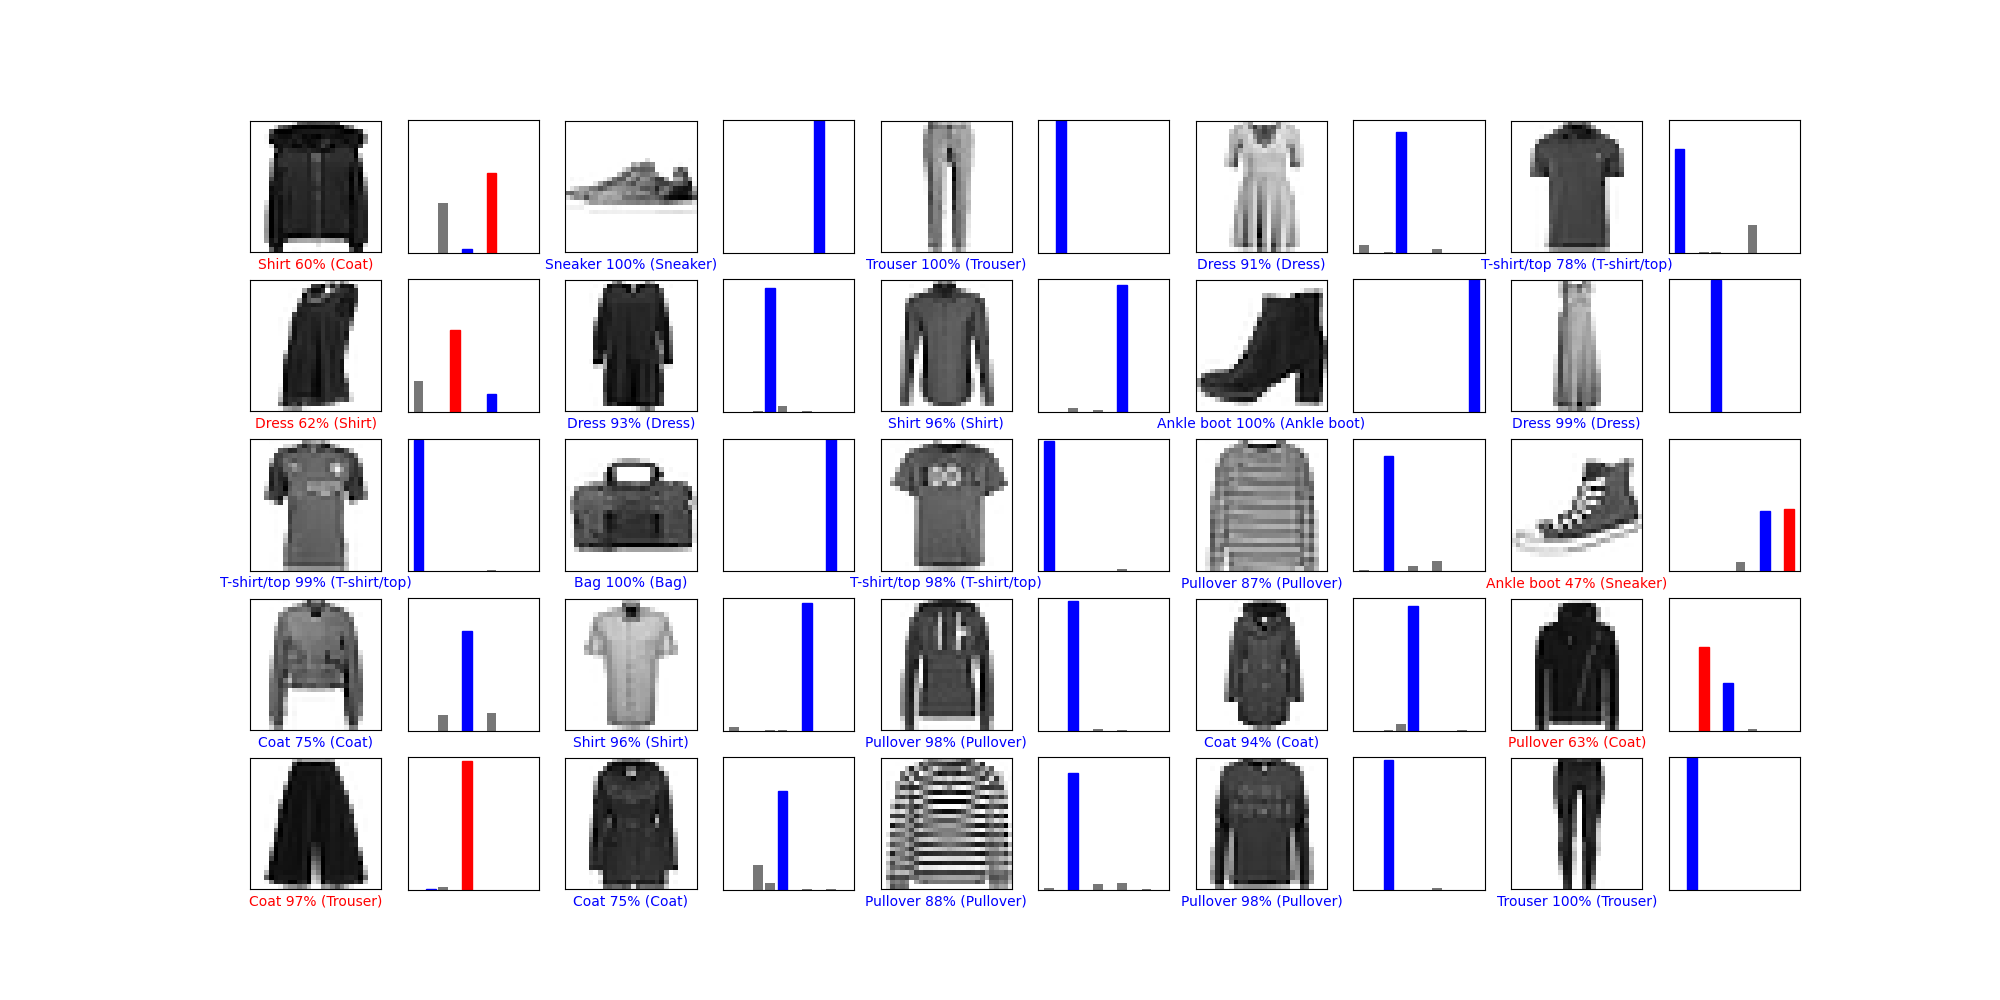
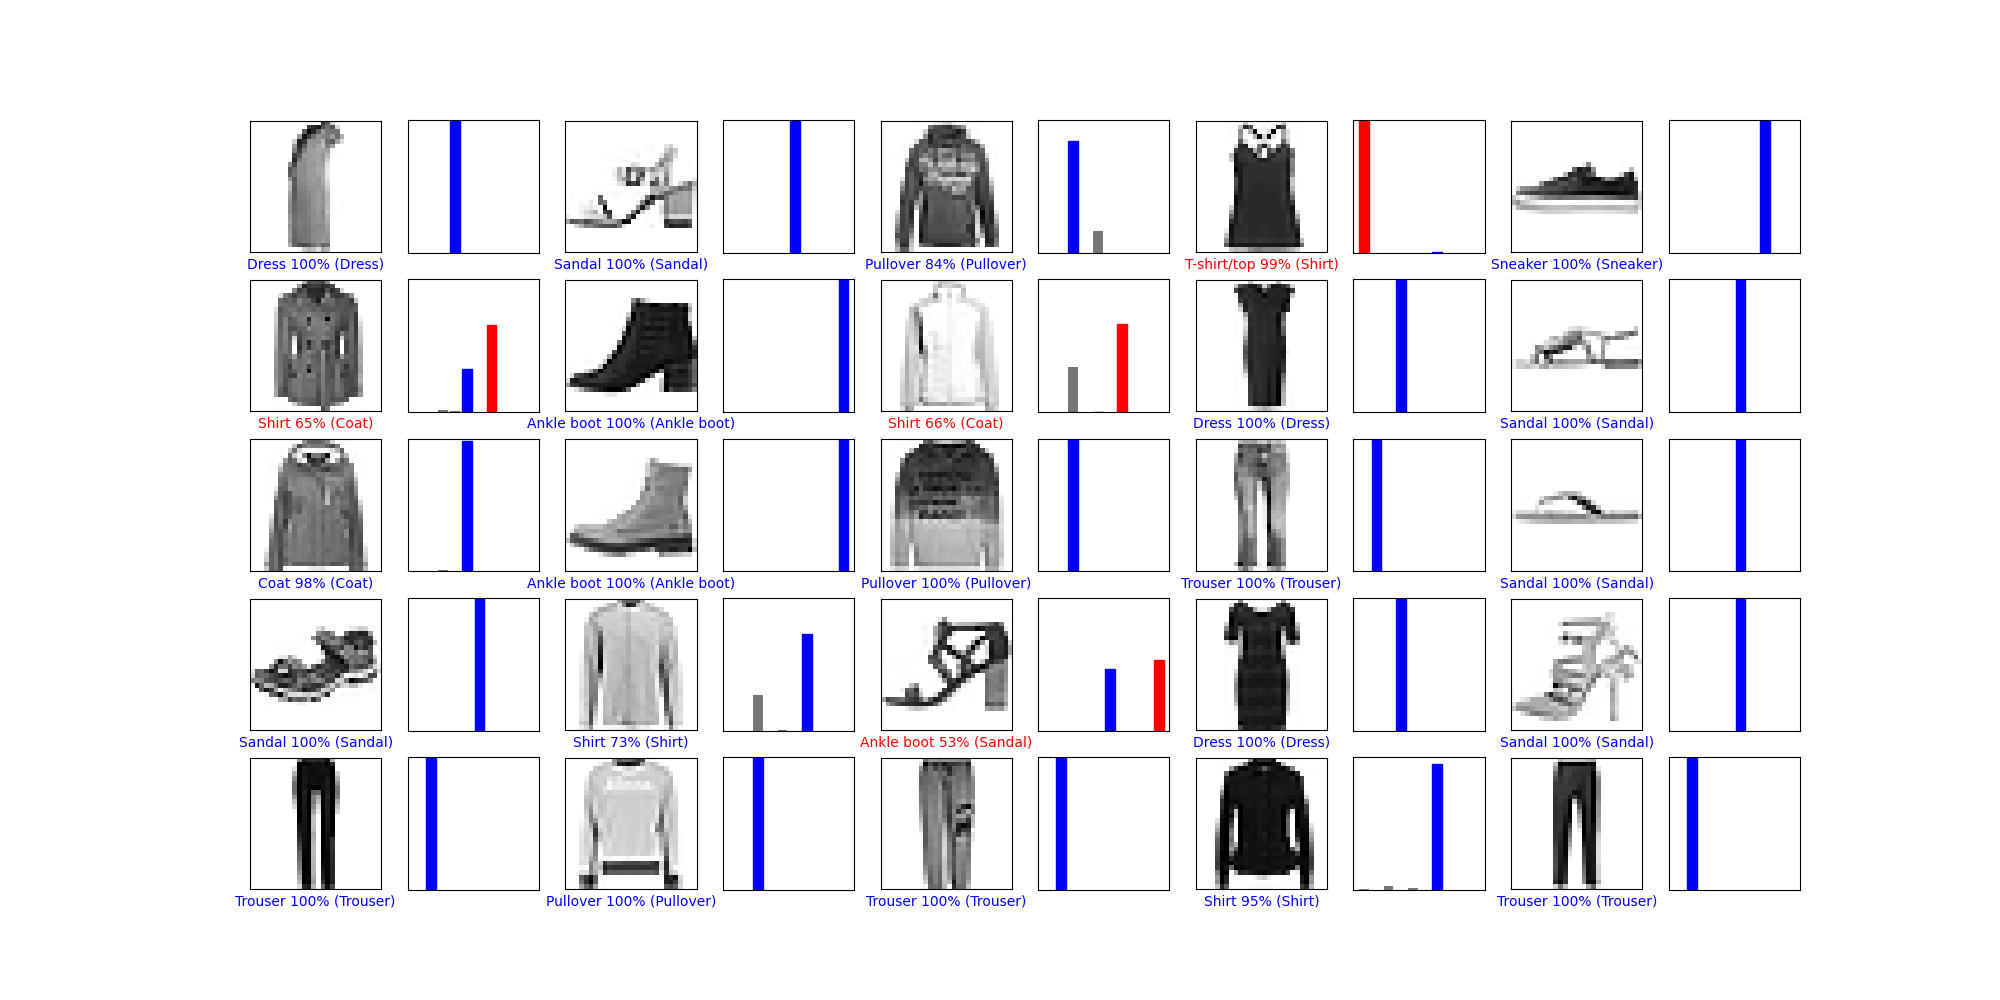
neuronas

diff --git a/templates/neuralimage.html b/templates/neuralimage.html
@@ -2,13 +2,13 @@
 
 {% block content %}
 <div class="portfolio-block block-intro">
-    <h2> Red Neuronal de Identificacion de objetos</h2>
-    <h4> Ejemplo de Datos de Entrenamiento</h4>
-    <img class="neural" src="{{ url_for('static', filename='pruebas.png') }}"/>
-    <h4> Resultados de la red </h4>
-    <img  class="neural" src="{{ url_for('static', filename='new_plot.png') }}"/>
+    <h2> Clasificacion de Imagenes</h2>
+    <h4> Dato Ingresado</h4>
+    <img src="{{ url_for('static', filename='intro.png') }}"/>
+    <h4> Resultados de la Clasificacion </h4>
+    <img  src="{{ url_for('static', filename='outro.png') }}"/>
     <form action="{{ url_for('neural.neuralImage') }}" method="POST" enctype="multipart/form-data">
-        Select image to upload:
+        Usa otra imagen:
         <input type="file" name="myImage" id="fileToUpload">
         <input type="submit" value="Upload Image" name="submit">
     </form>

diff --git a/templates/layout.html b/templates/layout.html
@@ -70,7 +70,7 @@
                         </a>                      
                         <ul class="dropdown-menu" aria-labelledby="dropdownMenuLink">
                             <li><a class="dropdown-item" href="/series_tiempo">Series de Tiempo</a></li>
-                            <li><a class="dropdown-item" href="#">Redes Neuronales</a></li>
+                            <li><a class="dropdown-item" href="/neural">Redes Neuronales</a></li>
                             <li><a class="dropdown-item" href="#">Machine learning</a></li>
                         </ul>
                     </div>

diff --git a/neural.py b/neural.py
@@ -1,4 +1,4 @@
-from flask import Blueprint,render_template
+from flask import Blueprint,render_template,request
 import tensorflow as tf
 import tensorflow_datasets as tfds
 import matplotlib.pyplot as plt
@@ -38,9 +38,9 @@ datos_pruebas = datos_pruebas.cache()
 
     #Crear el modelo
 modelo = tf.keras.Sequential([
-tf.keras.layers.Flatten(input_shape=(28,28,1)), #1 - blanco y negro
-tf.keras.layers.Dense(60, activation=tf.nn.relu),
-tf.keras.layers.Dense(60, activation=tf.nn.relu),
+tf.keras.layers.Flatten(input_shape=(28,28)), #1 - blanco y negro
+tf.keras.layers.Dense(70, activation=tf.nn.relu),
+tf.keras.layers.Dense(70, activation=tf.nn.relu),
 tf.keras.layers.Dense(10, activation=tf.nn.softmax) #Para redes de clasificacion
     ])
 
@@ -78,7 +78,7 @@ historial = modelo
 @neural.route('/neural')
 def neuralnet():
     #Entrenar
-    historial = modelo.fit(datos_entrenamiento, epochs=5, steps_per_epoch= math.ceil(num_ej_entrenamiento/TAMANO_LOTE))
+    historial = modelo.fit(datos_entrenamiento, epochs=7, steps_per_epoch= math.ceil(num_ej_entrenamiento/TAMANO_LOTE))
 
     for imagenes_prueba, etiquetas_prueba in datos_pruebas.take(1):
         imagenes_prueba = imagenes_prueba.numpy()
@@ -131,7 +131,69 @@ def neuralnet():
     #Probar una imagen suelta
     imagen = imagenes_prueba[4] #AL ser la variable imagenes_prueba solo tiene lo que se le puso en el bloque anterior heheh
     imagen = np.array([imagen])
+   
     prediccion = modelo.predict(imagen)
     plt.savefig('static/new_plot.png')
     print("Prediccion: " + nombres_clases[np.argmax(prediccion[0])])
     return render_template("neural.html")
+
+
+from PIL import Image
+from io import BytesIO
+import cv2
+
+
+def input_prepare(img):
+    img = np.asarray(img)              # convert to array 
+    img = cv2.resize(img, (28, 28 ))   # resize to target shape 
+    img = cv2.bitwise_not(img)         # [optional] my input was white bg, I turned it to black - {bitwise_not} turns 1's into 0's and 0's into 1's
+    img = img / 255                    # normalize 
+    
+    img = img.reshape(1, 28, 28)          # reshaping 
+    return img 
+
+
+def makeOutro(imgplt,prediccion,porcentaje):
+        plt.figure()
+        plt.imshow(imgplt, cmap=plt.cm.binary)
+        plt.colorbar()
+        plt.grid(False)
+      
+
+        etiqueta_prediccion = np.argmax(prediccion)
+        
+        plt.xlabel(str(nombres_clases[etiqueta_prediccion]) + " " + "{:.2f}".format(porcentaje) + "%" )
+        plt.savefig('static/outro.png')
+
+
+@neural.route('/neural', methods =['POST'])
+def neuralImage():
+    try:
+        # check if the post request has the file part
+        file = request.files['myImage']
+        file = file.read()
+        img = Image.open(BytesIO(file))
+        imgplt = np.array(img.resize((28, 28 ), Image.ANTIALIAS))
+        plt.figure()
+        plt.imshow(imgplt, cmap=plt.cm.binary)
+        plt.colorbar()
+        plt.grid(False)
+        plt.savefig('static/intro.png')
+        
+   
+        img = img.convert("L")
+        img = input_prepare(img)
+       
+     
+        prediccion = modelo.predict(img)
+        porcentaje = 100*np.max(prediccion)
+        makeOutro(imgplt,prediccion,porcentaje)
+        print(prediccion)
+        
+        print("Prediccion: " + nombres_clases[np.argmax(prediccion[0])])
+        return render_template("neuralimage.html")
+       
+    except Exception as err:
+        print("Error occurred")
+        print(err)
+        return("Error, image not received.")
